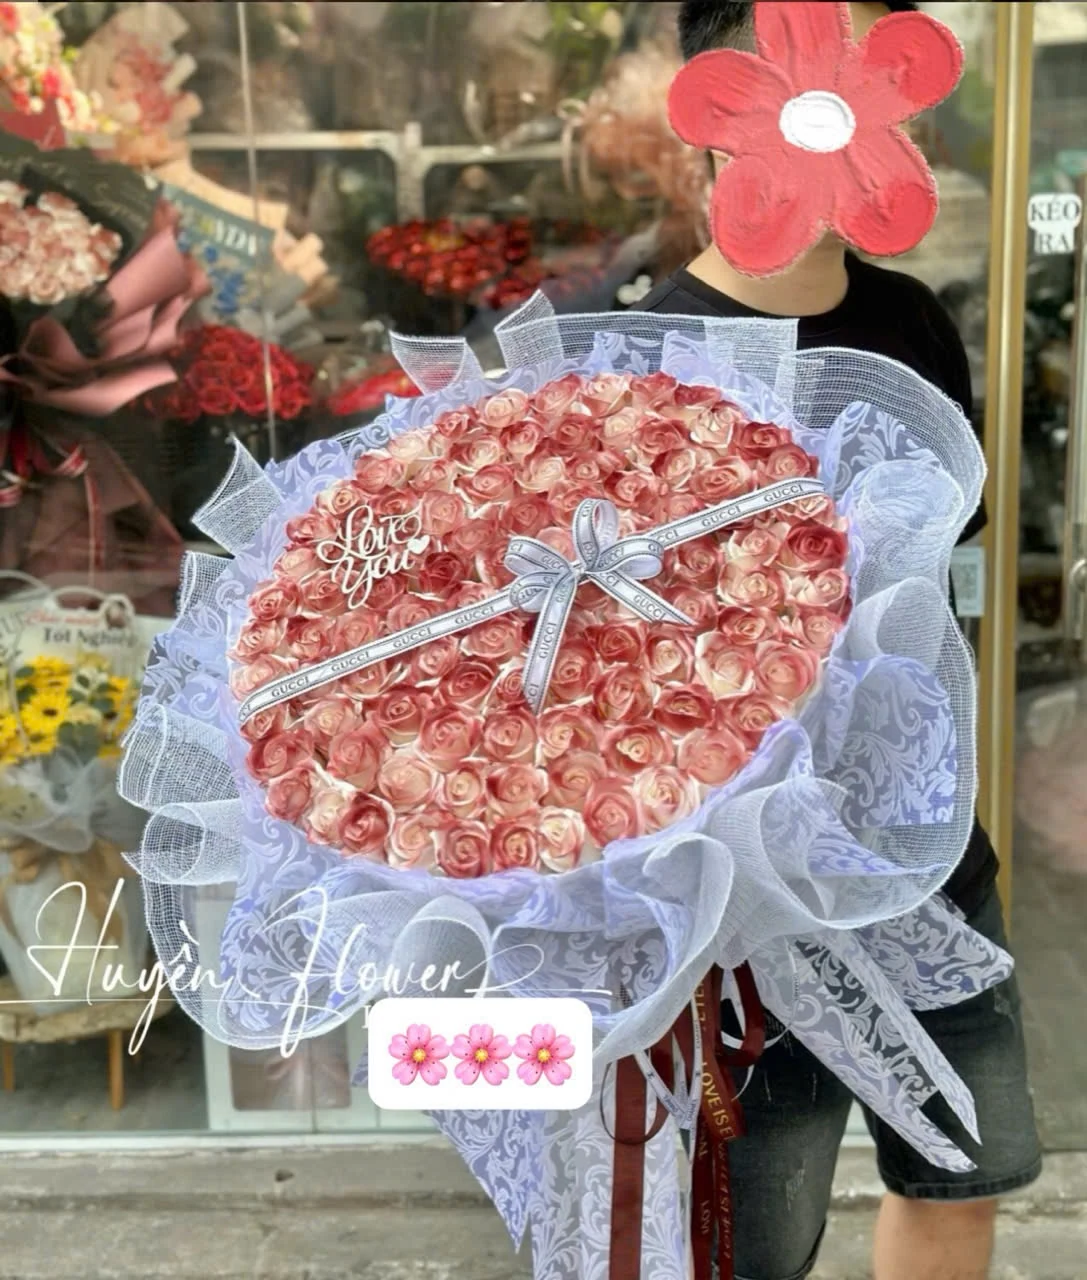
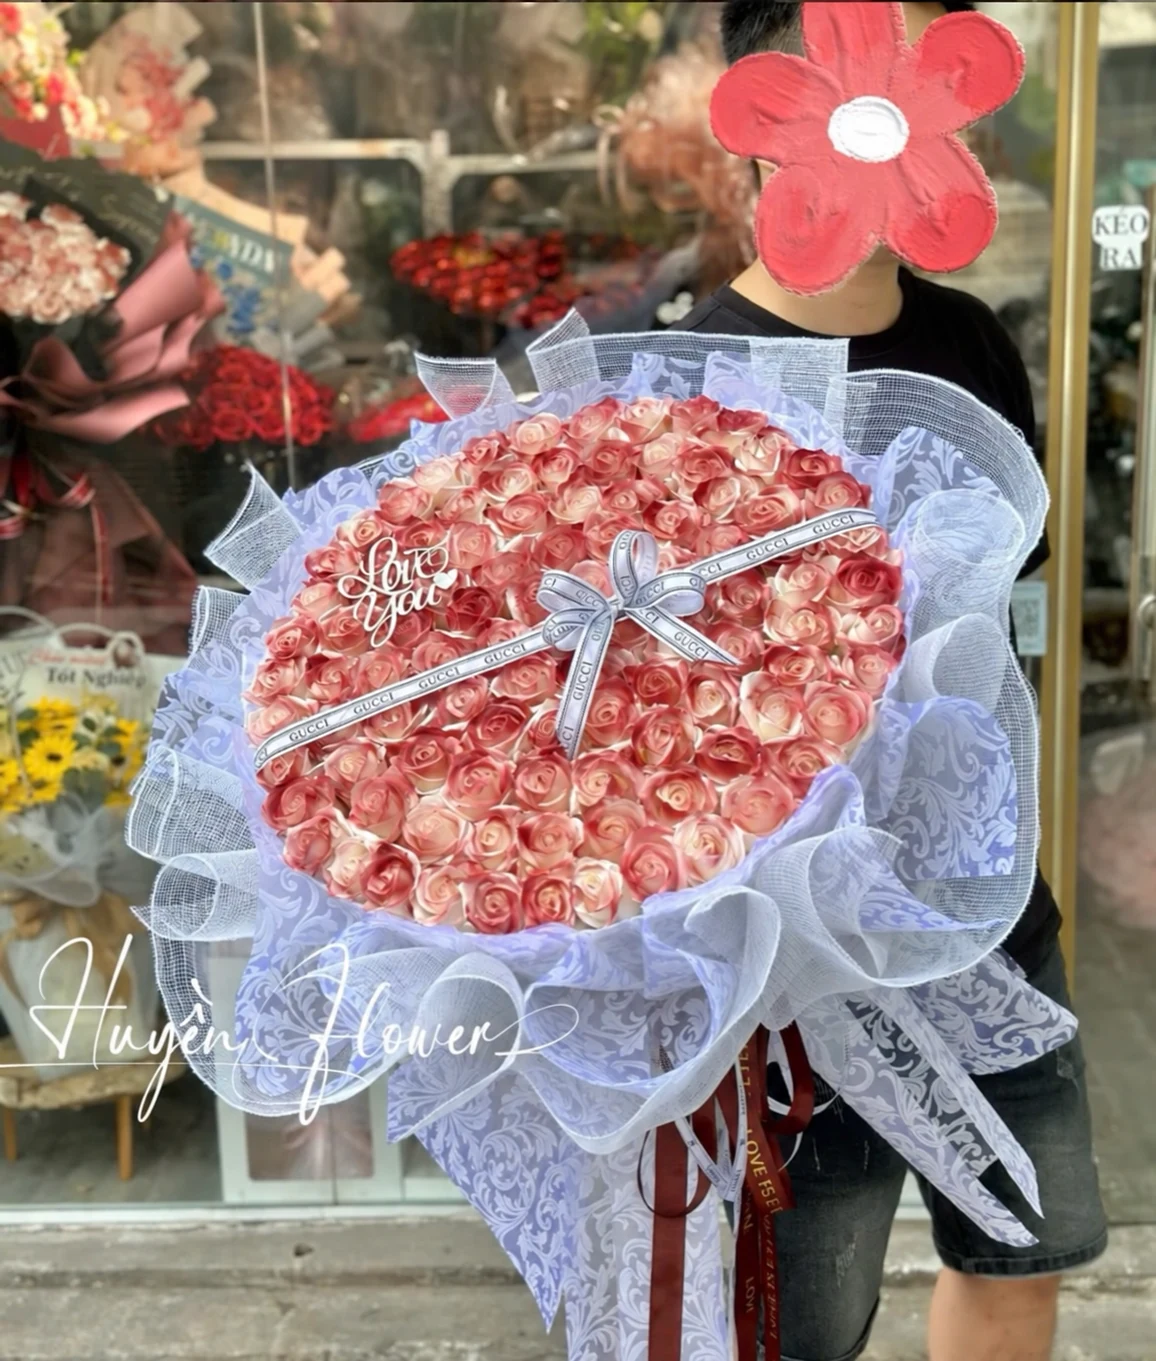
fix: 替換 R027 與 R028 核准去貼圖照片

diff --git a/gallery/index.html b/gallery/index.html
@@ -319,12 +319,12 @@
         },
         {
           "@type": "ImageObject",
-          "contentUrl": "https://flower-shop-vn.com/images/gallery/2026/r027.webp",
+          "contentUrl": "https://flower-shop-vn.com/images/gallery/2026/r027.webp?v=4cf382bb6955",
           "caption": "R027 玫瑰造型・淡紫網紗"
         },
         {
           "@type": "ImageObject",
-          "contentUrl": "https://flower-shop-vn.com/images/gallery/2026/r028.webp",
+          "contentUrl": "https://flower-shop-vn.com/images/gallery/2026/r028.webp?v=0f6d6e8e3372",
           "caption": "R028 粉色玫瑰造型・圓形緞帶"
         },
         {
@@ -633,13 +633,13 @@
             </div>
           </article>
           <article class="case-card portfolio-work" id="work-R027">
-            <a href="/images/gallery/2026/r027.webp" target="_blank" rel="noopener" aria-label="放大作品 R027：玫瑰造型・淡紫網紗"><img src="/images/gallery/2026/r027.webp" alt="玫瑰造型・淡紫網紗" width="1087" height="1280" loading="lazy" decoding="async"></a>
+            <a href="/images/gallery/2026/r027.webp?v=4cf382bb6955" target="_blank" rel="noopener" aria-label="放大作品 R027：玫瑰造型・淡紫網紗"><img src="/images/gallery/2026/r027.webp?v=4cf382bb6955" alt="玫瑰造型・淡紫網紗" width="1156" height="1361" loading="lazy" decoding="async"></a>
             <div class="case-card-body"><span class="case-category">作品照片</span><p class="work-code">作品 R027</p><h3>玫瑰造型・淡紫網紗</h3><p>玫瑰造型花面搭配淡紫色包裝、白色網紗及蝴蝶結，可參考圓形花面與包裝比例。</p>
               <div class="button-row"><a class="button button-secondary" href="/contact/?work=R027#inquiry">用這款詢價</a><a class="work-permalink" href="#work-R027">作品連結</a></div>
             </div>
           </article>
           <article class="case-card portfolio-work" id="work-R028">
-            <a href="/images/gallery/2026/r028.webp" target="_blank" rel="noopener" aria-label="放大作品 R028：粉色玫瑰造型・圓形緞帶"><img src="/images/gallery/2026/r028.webp" alt="粉色玫瑰造型・圓形緞帶" width="1068" height="1280" loading="lazy" decoding="async"></a>
+            <a href="/images/gallery/2026/r028.webp?v=0f6d6e8e3372" target="_blank" rel="noopener" aria-label="放大作品 R028：粉色玫瑰造型・圓形緞帶"><img src="/images/gallery/2026/r028.webp?v=0f6d6e8e3372" alt="粉色玫瑰造型・圓形緞帶" width="1146" height="1373" loading="lazy" decoding="async"></a>
             <div class="case-card-body"><span class="case-category">作品照片</span><p class="work-code">作品 R028</p><h3>粉色玫瑰造型・圓形緞帶</h3><p>密集的粉色玫瑰造型搭配白粉色包裝、緞帶與中央裝飾，可參考圓形花束風格。</p>
               <div class="button-row"><a class="button button-secondary" href="/contact/?work=R028#inquiry">用這款詢價</a><a class="work-permalink" href="#work-R028">作品連結</a></div>
             </div>
